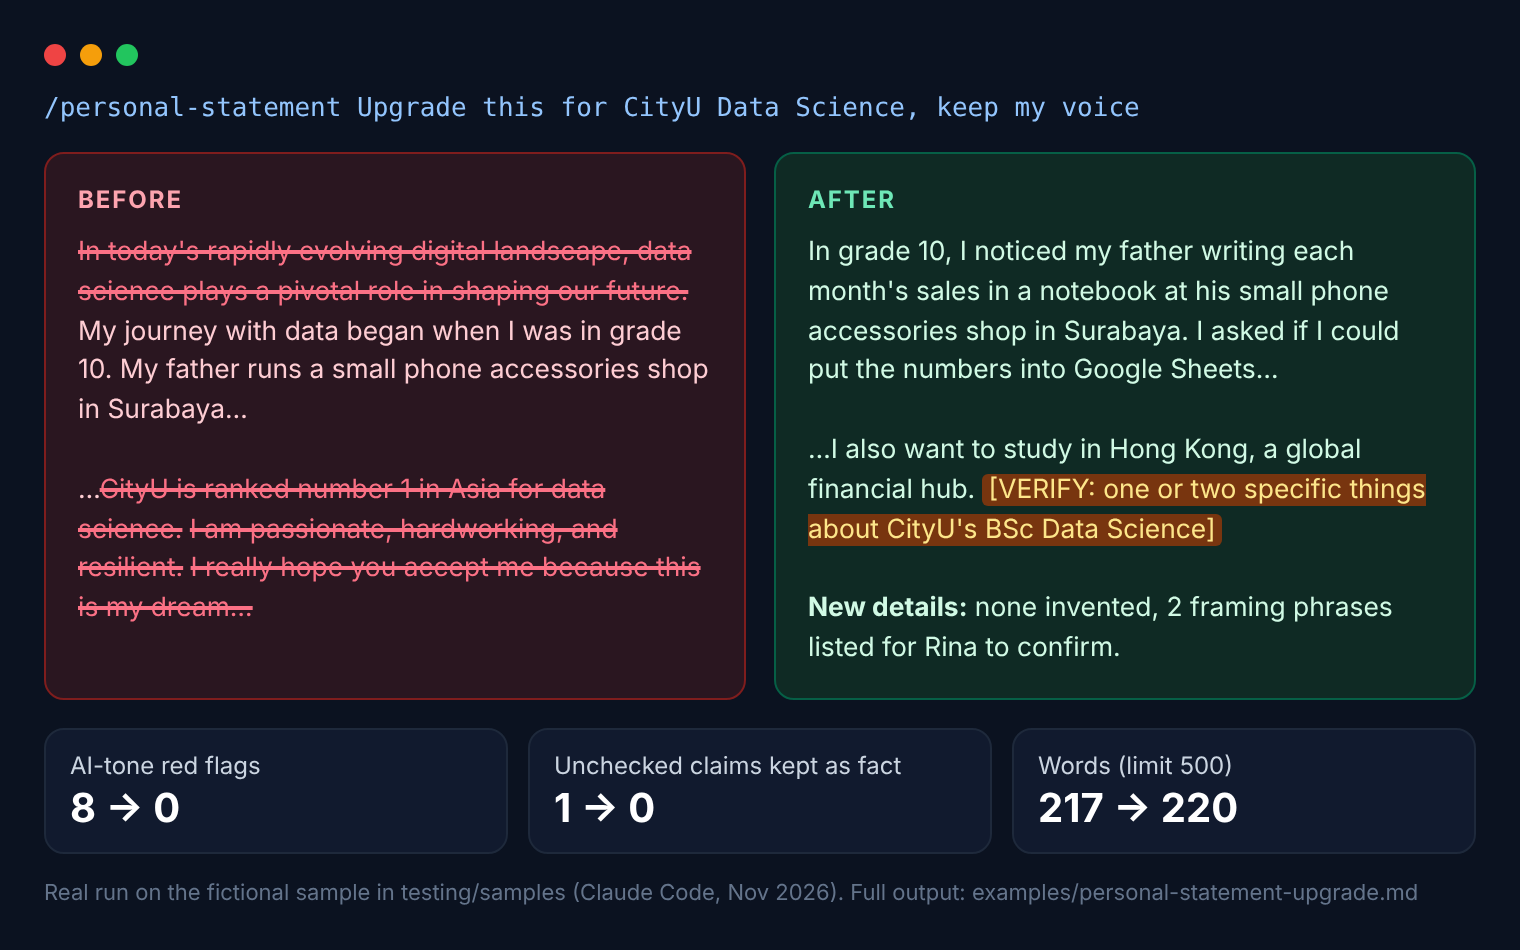
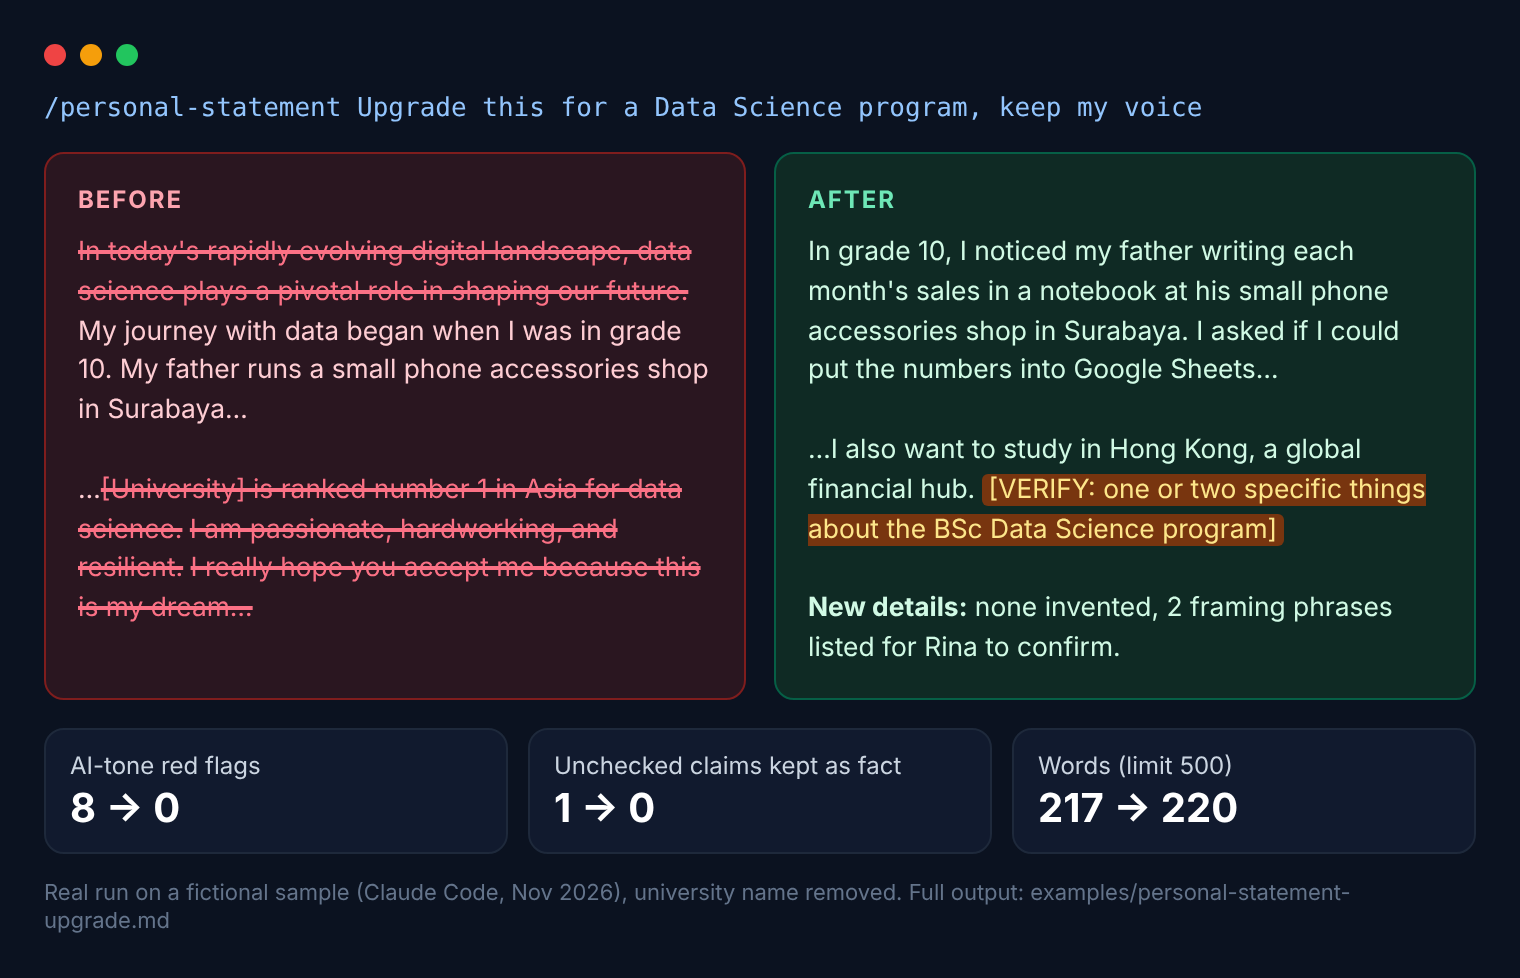
README: remove the university name from the examples and demo image
Claude-Session: https://claude.ai/code/session_011ev82EFHDgxdvxu3yokMFW

diff --git a/README.md b/README.md
@@ -139,7 +139,7 @@ Describe the task and the AI picks the skill, or call it by name:
 
 | You type | What you get |
 |---|---|
-| `/personal-statement Upgrade this for CityU Data Science, keep my voice: …` | A light rewrite, a change table, the fact trace and a "check before submitting" list |
+| `/personal-statement Upgrade this for a Data Science program, keep my voice: …` | A light rewrite, a change table, the fact trace and a "check before submitting" list |
 | `/personal-statement` + your notes, no draft | A new statement built from your material, debated before and after drafting |
 | `/humanizer [text]` | It asks "humanize only, or upgrade too?", then rewrites at the lightest touch |
 | `/harvard-cv Upgrade my CV for a data analyst internship: …` | An audit table, a one-page Harvard CV and before/after bullets |
@@ -151,24 +151,24 @@ In Codex use `$personal-statement` instead of `/personal-statement`. In chat app
 ## 👀 Example
 
 ```
-You:    /personal-statement Upgrade this for CityU BSc Data Science, keep my voice
+You:    /personal-statement Upgrade this for [University] BSc Data Science, keep my voice
         "In today's rapidly evolving digital landscape, data science plays a pivotal
-         role... CityU is ranked number 1 in Asia for data science..."
+         role... [University] is ranked number 1 in Asia for data science..."
 
 Skill:  Mode: Upgrade. Keeping your shop story and voice.
 
         In grade 10, I noticed my father writing each month's sales in a notebook
         at his small phone accessories shop in Surabaya...
         I also want to study in Hong Kong, a global financial hub. [VERIFY: replace
-        the ranking claim with one or two specific things about CityU's BSc Data
-        Science, checked on CityU's website]
+        the ranking claim with one or two specific things about the BSc Data
+        Science program, checked on the university's website]
 
         New details: "with statistics and code" is a goal, not something you did:
         confirm it's how you'd say it. No new names, numbers or achievements.
         Check: AI-tone red flags 8 -> 0. Words 220 / 500.
 ```
 
-See the full run, with the map, keep list, change table and checker output, in [`examples/personal-statement-upgrade.md`](examples/personal-statement-upgrade.md). The sample is fictional.
+See the full run, with the map, keep list, change table and checker output, in [`examples/personal-statement-upgrade.md`](examples/personal-statement-upgrade.md). The sample is fictional, and the university name is replaced with [University] here.
 
 ## ❓ FAQ
 
@@ -237,4 +237,4 @@ The idea of a structured, stage-based personal statement skill comes from [Diamo
 
 ## License
 
-[MIT](LICENSE). Not affiliated with Harvard, Turnitin, UCAS, NACAC, CityU or any other university, company or app named here.
+[MIT](LICENSE). Not affiliated with Harvard, Turnitin, UCAS, NACAC or any university, company or app named here.
